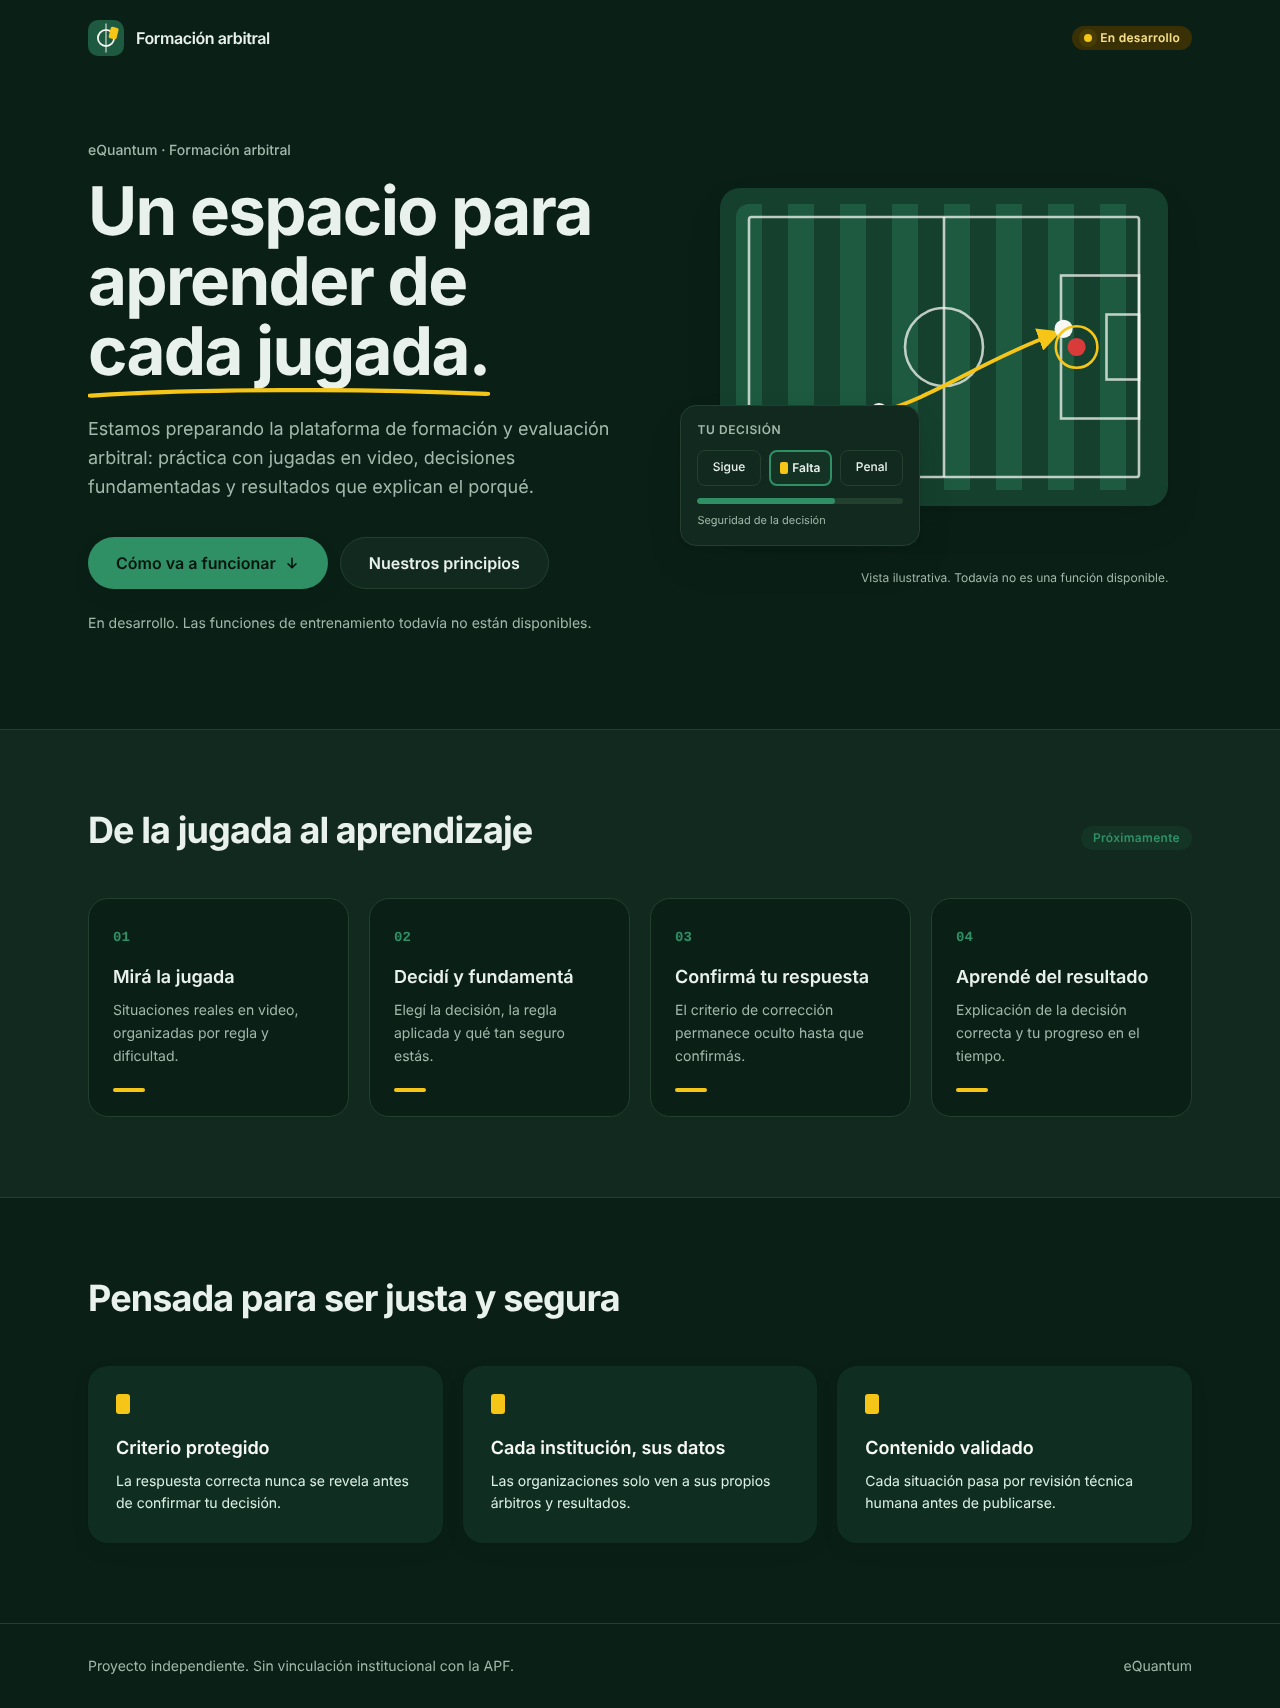
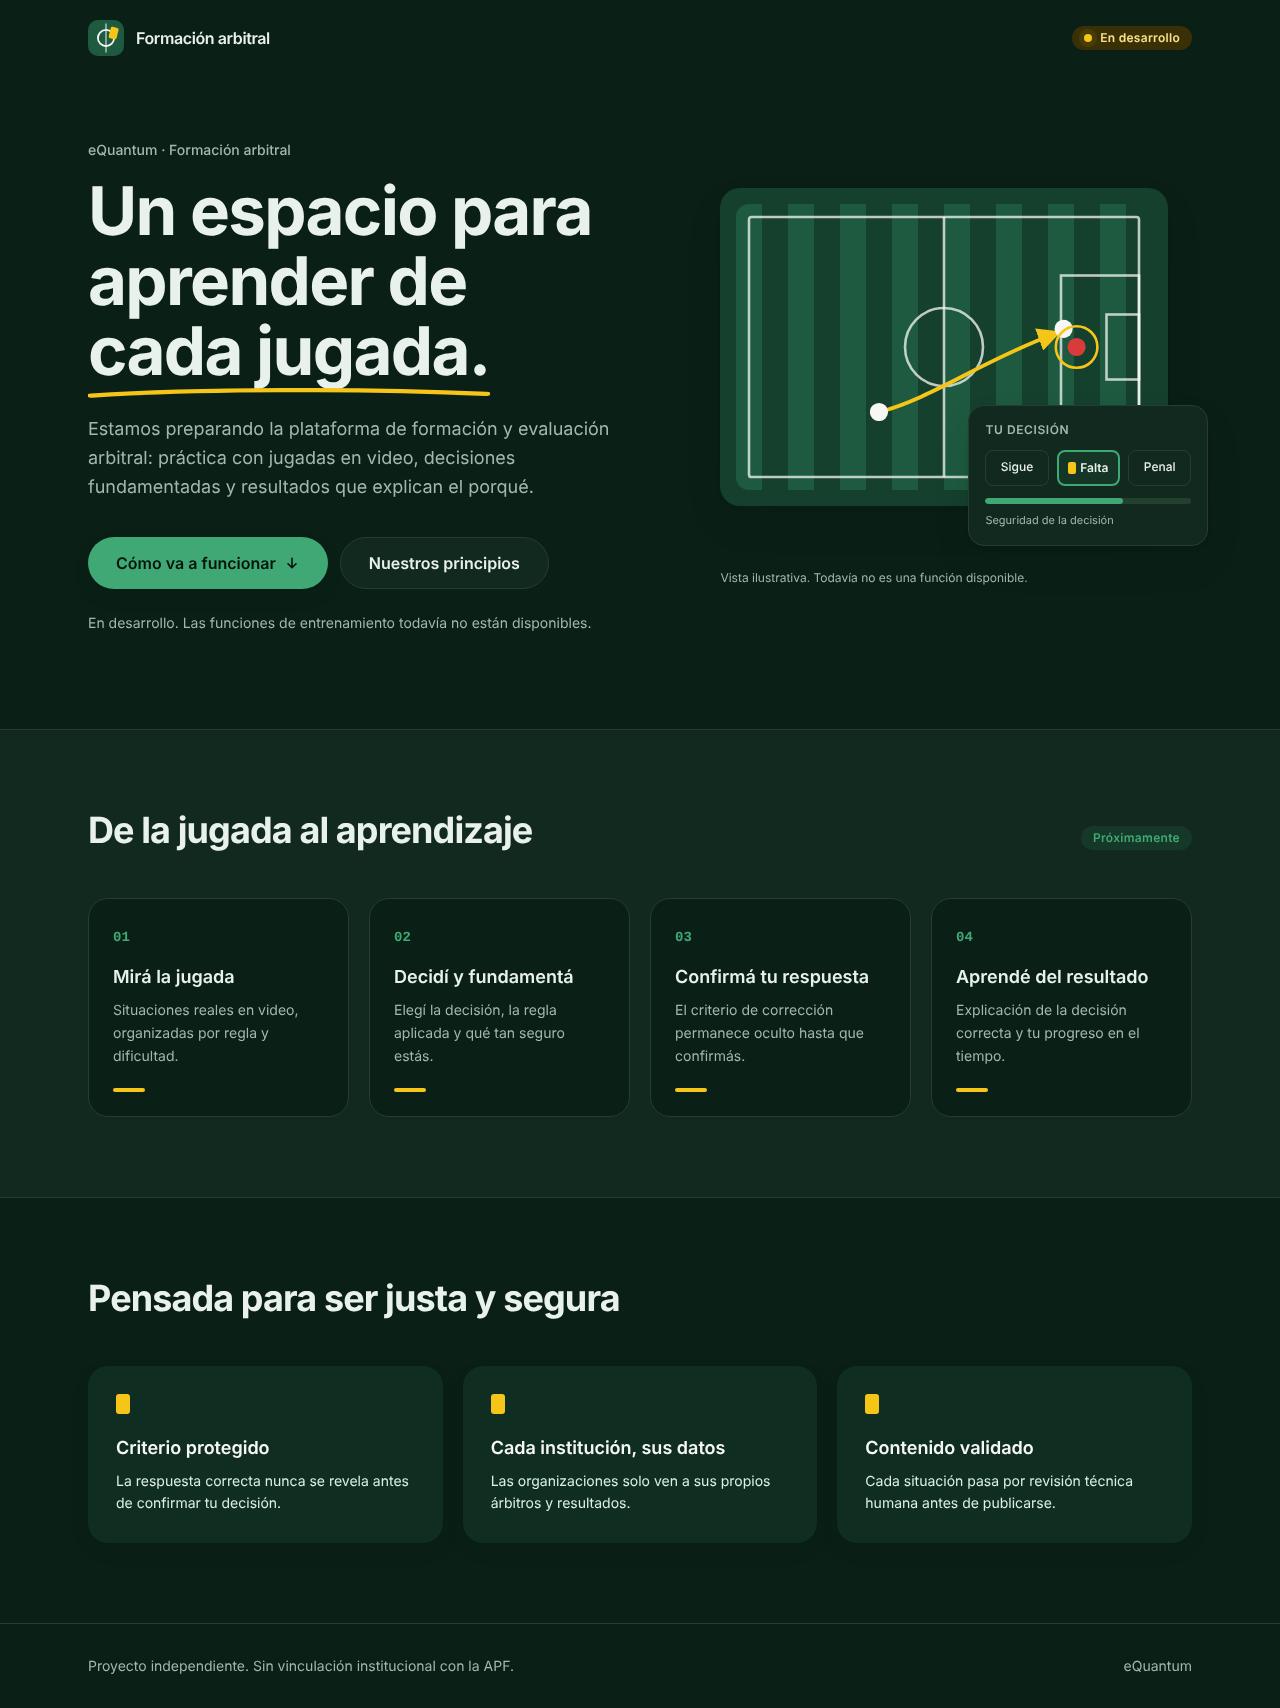
fix(web): contraste del acento en modo oscuro y tarjeta ilustrativa sin tapar la jugada
El verde de acento oscuro pasa de 4,3:1 a 5,8:1 sobre el fondo (AA para texto
chico). La tarjeta de decisión se mueve a la derecha para no ocultar al jugador
de origen. Capturas actualizadas.

Claude-Session: https://claude.ai/code/session_01LUwgjyACngPtt1UP7iW2Qq

diff --git a/apps/web/app/components/pitch-illustration.tsx b/apps/web/app/components/pitch-illustration.tsx
@@ -40,8 +40,8 @@ export function PitchIllustration() {
             <circle cx="262" cy="110" r="16" fill="none" stroke="var(--color-card-yellow)" strokeWidth="2" />
           </svg>
         </div>
-  
-        <div className="animate-rise absolute -bottom-10 -left-4 w-60 rounded-2xl border border-[var(--border)] bg-[var(--surface-raised)] p-4 shadow-[var(--shadow-lift)] [animation-delay:0.5s] sm:-left-10">
+
+        <div className="animate-rise absolute -bottom-10 -right-4 w-60 rounded-2xl border border-[var(--border)] bg-[var(--surface-raised)] p-4 shadow-[var(--shadow-lift)] [animation-delay:0.5s] sm:-right-10">
           <p className="text-xs font-semibold uppercase tracking-wider text-[var(--text-muted)]">Tu decisión</p>
           <div className="mt-3 grid grid-cols-3 gap-2" aria-hidden>
             <span className="rounded-lg border border-[var(--border)] py-2 text-center text-xs font-medium">Sigue</span>
@@ -55,10 +55,10 @@ export function PitchIllustration() {
             <div className="h-full w-2/3 rounded-full bg-[var(--accent)]" />
           </div>
           <p className="mt-2 text-[11px] text-[var(--text-muted)]">Seguridad de la decisión</p>
-      </div>
+        </div>
       </div>
 
-      <figcaption id="pitch-caption" className="mt-16 text-right text-xs text-[var(--text-muted)]">
+      <figcaption id="pitch-caption" className="mt-16 text-left text-xs text-[var(--text-muted)]">
         Vista ilustrativa. Todavía no es una función disponible.
       </figcaption>
     </figure>

diff --git a/apps/web/app/globals.css b/apps/web/app/globals.css
@@ -50,7 +50,7 @@
     --text: #e9f1ec;
     --text-muted: #a3b8ab;
     --border: #23402f;
-    --accent: var(--color-pitch-500);
+    --accent: #3fa874;
     --accent-contrast: #04140d;
   }
 }
